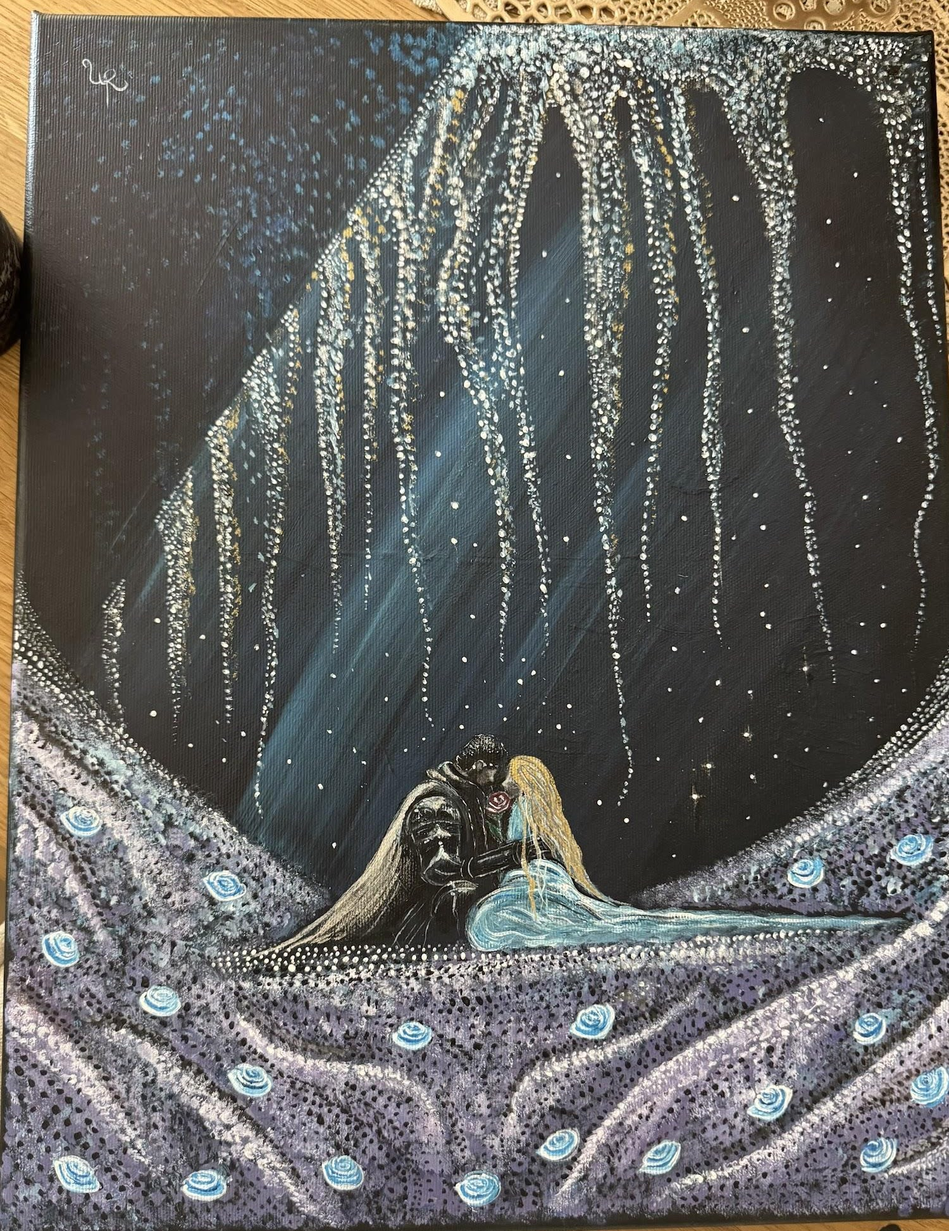
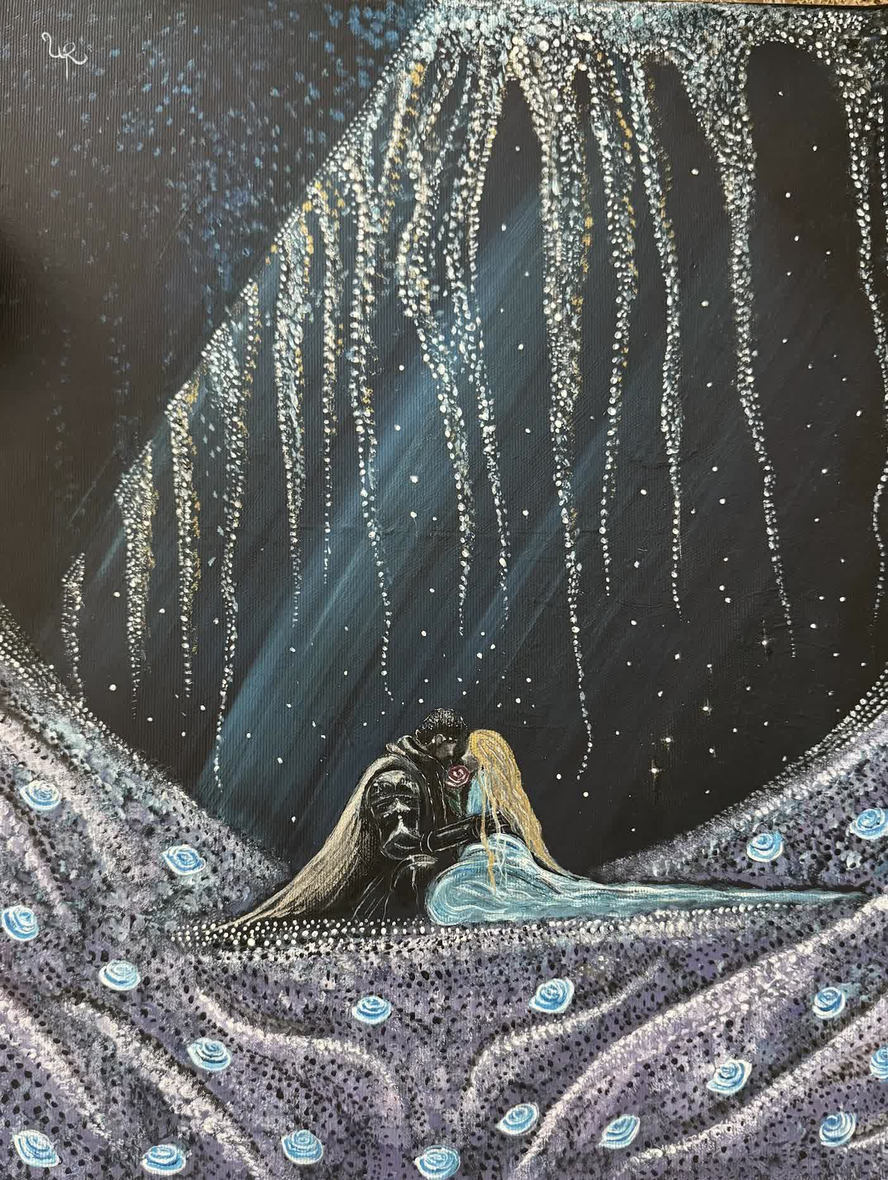
Replace all 5 hero photos with clean studio shots from Drive
Found a "Spletna" (website) doc in Urška's Drive containing
professionally-lit, uncluttered studio photos of all 5 flagship
paintings (including The Prophecy) — a clear upgrade over the
informal home-photo crops previously in use. Cropped each to the
canvas and swapped them in.

Also: every artwork's "Her words"/"Meaning"/"For the collector"
section now shows the real painting instead of a generic gradient
placeholder, and Blossoming Love gained a real "In the artist's
hands" photo (Urška holding the finished canvas), rendered via a new
reusable DetailImages section for provenance/authenticity — ready to
extend once similar photos exist for the other pieces.

diff --git a/src/components/story/StorySection.tsx b/src/components/story/StorySection.tsx
@@ -1,5 +1,6 @@
 "use client";
 
+import Image from "next/image";
 import { motion } from "framer-motion";
 import { StoryBeat } from "@/content/types";
 import PlaceholderArt from "@/components/shared/PlaceholderArt";
@@ -10,11 +11,15 @@ export default function StorySection({
   index,
   accentColor,
   artworkTitle,
+  image,
+  imageAlt,
 }: {
   beat: StoryBeat;
   index: number;
   accentColor: string;
   artworkTitle: string;
+  image?: string;
+  imageAlt?: string;
 }) {
   const imageFirst = index % 2 === 0;
 
@@ -29,11 +34,23 @@ export default function StorySection({
             viewport={{ once: true, amount: 0.4 }}
             transition={{ duration: 0.8, ease: "easeOut" }}
           >
-            <PlaceholderArt
-              label={artworkTitle}
-              accentColor={accentColor}
-              className="aspect-[4/5] rounded-sm"
-            />
+            {image ? (
+              <div className="relative aspect-[4/5] overflow-hidden rounded-sm">
+                <Image
+                  src={image}
+                  alt={imageAlt ?? artworkTitle}
+                  fill
+                  sizes="(min-width: 768px) 45vw, 90vw"
+                  className="object-cover"
+                />
+              </div>
+            ) : (
+              <PlaceholderArt
+                label={artworkTitle}
+                accentColor={accentColor}
+                className="aspect-[4/5] rounded-sm"
+              />
+            )}
           </motion.div>
           <motion.div
             className={imageFirst ? "md:order-2" : "md:order-1"}

diff --git a/src/components/story/DetailImages.tsx b/src/components/story/DetailImages.tsx
@@ -1,0 +1,35 @@
+import Image from "next/image";
+import Container from "@/components/shared/Container";
+import { Artwork } from "@/content/types";
+
+/** Extra provenance photos beyond the main hero shot — e.g. Urška holding the finished piece. */
+export default function DetailImages({ images }: { images: Artwork["detailImages"] }) {
+  if (!images || images.length === 0) return null;
+
+  return (
+    <section className="py-16 md:py-20 bg-ink">
+      <Container>
+        <div className="grid gap-10 sm:grid-cols-2 lg:grid-cols-3">
+          {images.map((img, i) => (
+            <figure key={i}>
+              {img.src && (
+                <div className="relative aspect-[4/5] overflow-hidden rounded-sm">
+                  <Image
+                    src={img.src}
+                    alt={img.alt}
+                    fill
+                    sizes="(min-width: 1024px) 30vw, (min-width: 640px) 45vw, 90vw"
+                    className="object-cover"
+                  />
+                </div>
+              )}
+              <figcaption className="mt-3 text-xs tracking-widest uppercase text-smoke text-center">
+                {img.label}
+              </figcaption>
+            </figure>
+          ))}
+        </div>
+      </Container>
+    </section>
+  );
+}

diff --git a/src/components/story/ArtworkStory.tsx b/src/components/story/ArtworkStory.tsx
@@ -2,6 +2,7 @@ import Link from "next/link";
 import { Artwork } from "@/content/types";
 import StoryHero from "./StoryHero";
 import StorySection from "./StorySection";
+import DetailImages from "./DetailImages";
 import ArtworkSpecs from "./ArtworkSpecs";
 import PriceReveal from "./PriceReveal";
 
@@ -16,6 +17,8 @@ export default function ArtworkStory({ artwork }: { artwork: Artwork }) {
           index={index}
           accentColor={artwork.accentColor}
           artworkTitle={artwork.title}
+          image={artwork.heroImage}
+          imageAlt={artwork.heroImageAlt}
         />
       ))}
       {artwork.artistNote && (
@@ -36,6 +39,7 @@ export default function ArtworkStory({ artwork }: { artwork: Artwork }) {
           </div>
         </section>
       )}
+      <DetailImages images={artwork.detailImages} />
       <ArtworkSpecs artwork={artwork} />
       <div className="border-t border-bone/10">
         <PriceReveal artwork={artwork} />

diff --git a/src/content/artworks.ts b/src/content/artworks.ts
@@ -160,6 +160,13 @@ export const artworks: Artwork[] = [
     heroImage: "/images/blossoming-love.jpg",
     heroImageAlt:
       "Photograph of an original painting by Urška depicting a couple embracing beneath a canopy of falling stars, one holding a red rose, over a rose-patterned ground.",
+    detailImages: [
+      {
+        src: "/images/blossoming-love-holding.jpg",
+        alt: "Urška holding the finished 'Blossoming Love' canvas outdoors",
+        label: "In the artist's hands",
+      },
+    ],
     accentColor: "#4A4A4A",
     year: 2023,
     medium: "Acrylic on canvas",
